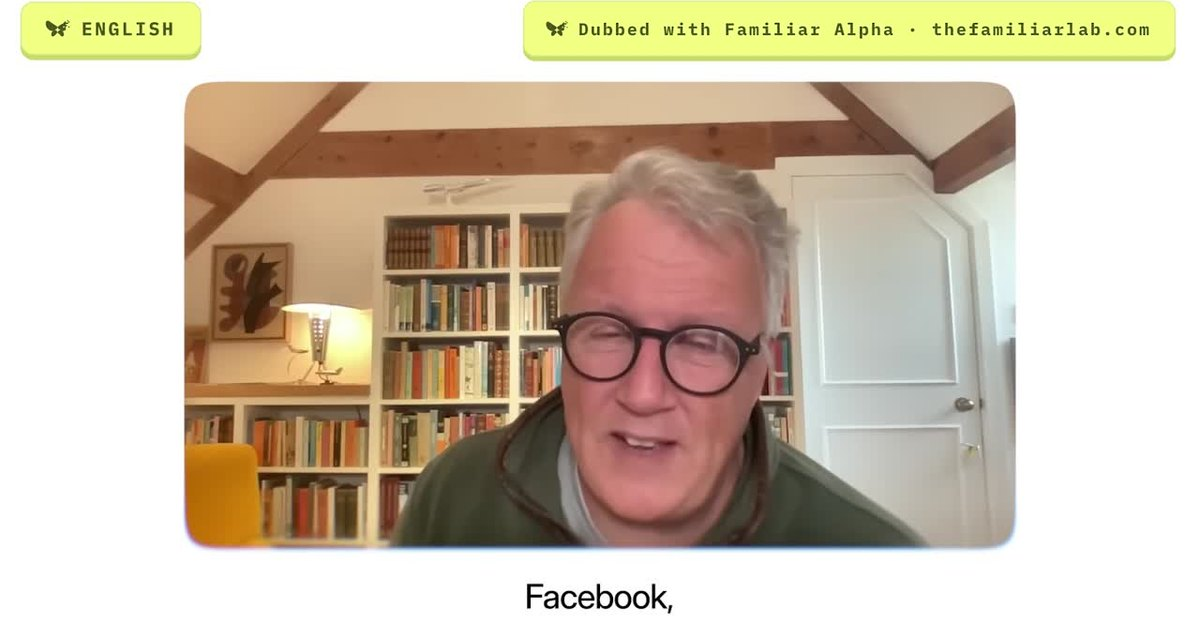
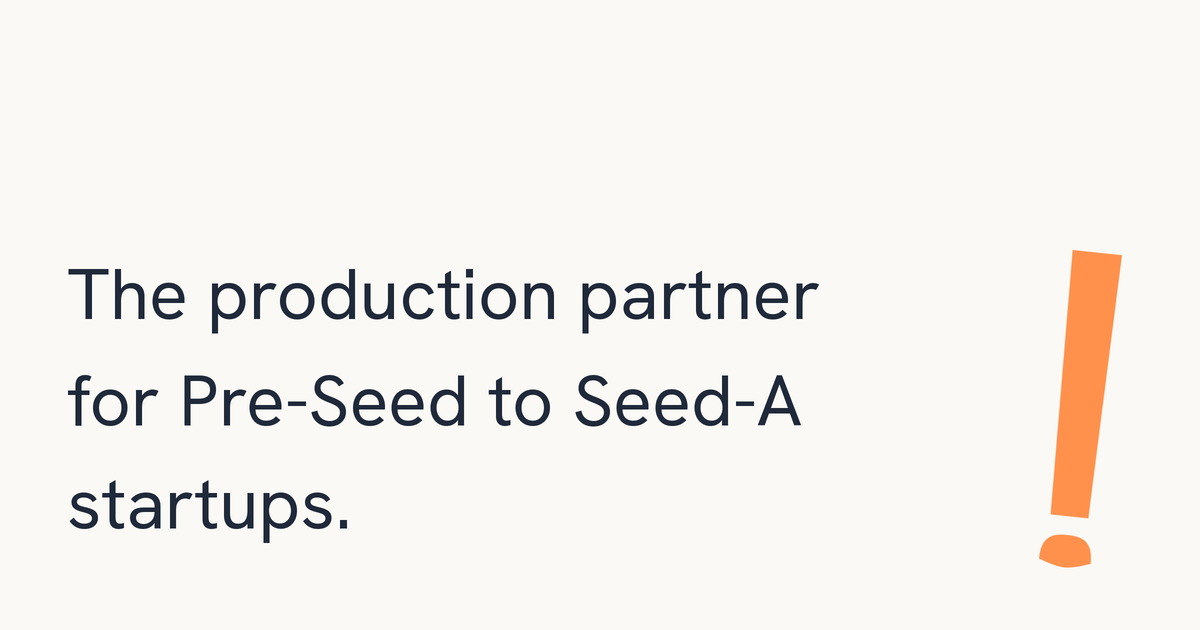
Update social preview, overlay loader, and launch cards.
Replace the OG graphic copy, lead with Familiar, rename the Bolto poster, and restyle launch thumbs plus overlay type and loading.

diff --git a/lib/site.js b/lib/site.js
@@ -5,7 +5,7 @@ export const site = {
   legalName: "WISPER STUDIOS",
   tagline: "BRANDING-FIRST PRODUCTION STUDIO",
   title: "Wisper Studios | The production partner for Pre-Seed to Seed-A startups",
-  previewTitle: "UPDATE TEXT HERE",
+  previewTitle: "The production partner for Pre-Seed to Seed-A startups.",
   description:
     "Launching, growing, and showing startups one (or 10) videos at a time. Branding-first production for Pre-Seed to Seed-A startups.",
   year: 2026,
@@ -30,9 +30,21 @@ export const site = {
     lockNote: "Other Projects Available Via DM",
     items: [
       {
+        slug: "familiar-launch",
+        title: "Familiar-Launch",
+        credits:
+          "[Director: Jarenz Castillo, Scriptwriter: Tommy Wang, Editor: Sharjeel Khan]",
+        description:
+          "Familiar (YC S26) launches video language translation that keeps the original performance — content that can live in every language.",
+        image: "/images/launches/work-4.jpg",
+        postUrl:
+          "https://www.linkedin.com/feed/update/urn:li:activity:7494156988268838912/",
+        embedUrl:
+          "https://www.linkedin.com/embed/feed/update/urn:li:activity:7494156988268838912?compact=1",
+      },
+      {
         slug: "twolabs-launch",
         title: "Twolabs Launch",
-        overlayTitle: "[Twolabs Launch]",
         credits: "[Director: Jarenz Castillo, DP: Carl De Vera, Editor: Sharjeel Khan]",
         description:
           "Twolabs (YC P26) introduces the humanoid robots they’re building — a launch film for a company still in motion.",
@@ -45,7 +57,6 @@ export const site = {
       {
         slug: "bolto-seriesa",
         title: "Bolto Series A",
-        overlayTitle: "[Bolto Series A]",
         credits: "[DP: Carl De Vera]",
         description:
           "Bolto shares a $12M Series A from Sequoia, Y Combinator, and General Catalyst — positioning for speed with investors and customers.",
@@ -57,8 +68,7 @@ export const site = {
       },
       {
         slug: "bolto-poster",
-        title: "Bolto Poster",
-        overlayTitle: "[Bolto Poster]",
+        title: "Bolto Poster Campaign",
         credits: "[DP, Editor: Carl De Vera]",
         description:
           "A poster-led piece for Bolto: sales shouldn’t be boring, so the work puts a world around the product instead of a pitch deck.",
@@ -67,20 +77,6 @@ export const site = {
           "https://www.linkedin.com/posts/mrinalsingh2_sales-shouldnt-be-boring-so-we-made-90-ugcPost-7445525481069903872-n1px/",
         embedUrl:
           "https://www.linkedin.com/embed/feed/update/urn:li:ugcPost:7445525481069903872?compact=1",
-      },
-      {
-        slug: "familiar-launch",
-        title: "Familiar-Launch",
-        overlayTitle: "[Familiar-Launch]",
-        credits:
-          "[Director: Jarenz Castillo, Scriptwriter: Tommy Wang, Editor: Sharjeel Khan]",
-        description:
-          "Familiar (YC S26) launches video language translation that keeps the original performance — content that can live in every language.",
-        image: "/images/launches/work-4.jpg",
-        postUrl:
-          "https://www.linkedin.com/feed/update/urn:li:activity:7494156988268838912/",
-        embedUrl:
-          "https://www.linkedin.com/embed/feed/update/urn:li:activity:7494156988268838912?compact=1",
       },
     ],
   },

diff --git a/components/landing/LandingPage.module.css b/components/landing/LandingPage.module.css
@@ -200,8 +200,9 @@
   overflow: hidden;
   width: 432px;
   height: 240px;
-  border-radius: var(--radius-sm);
-  background-color: var(--color-neutral-300);
+  border: 2px solid #ededed;
+  border-radius: 14px;
+  background-color: #ededed;
   scroll-snap-align: start;
 }
 
@@ -309,7 +310,40 @@
   width: 100%;
   overflow: hidden;
   aspect-ratio: 1960 / 1080;
-  background-color: var(--color-gooper-green);
+  background-color: #ededed;
+}
+
+.overlayLoader {
+  position: absolute;
+  inset: 0;
+  z-index: 1;
+  display: flex;
+  align-items: center;
+  justify-content: center;
+  background-color: #ededed;
+  pointer-events: none;
+}
+
+.overlayLoaderBar {
+  width: min(240px, 42%);
+  height: 4px;
+  border-radius: 999px;
+  background-color: #ff914d;
+  animation: overlayLoaderBar 1.2s ease-in-out infinite;
+}
+
+@keyframes overlayLoaderBar {
+  0% {
+    transform: translateX(-160%) scaleX(0.4);
+  }
+
+  50% {
+    transform: translateX(0) scaleX(1);
+  }
+
+  100% {
+    transform: translateX(160%) scaleX(0.4);
+  }
 }
 
 .overlayFrame iframe {
@@ -323,15 +357,7 @@
 .overlayMeta {
   display: flex;
   flex-direction: column;
-  gap: 12px;
-  width: 100%;
-}
-
-.overlayMetaRow {
-  display: flex;
-  align-items: baseline;
-  justify-content: space-between;
-  gap: 16px;
+  gap: 8px;
   width: 100%;
 }
 
@@ -339,19 +365,32 @@
 .overlayDirector,
 .overlayDescription {
   margin: 0;
-  color: var(--color-pure-black);
+  width: 100%;
   font-family: var(--font-family-mono);
-  font-size: 16px;
   font-weight: var(--font-weight-mono-regular);
   letter-spacing: 0;
-  line-height: 18px;
+}
+
+.overlayTitle {
+  color: var(--color-pure-black);
+  font-size: 16px;
+  line-height: 20px;
+  text-transform: uppercase;
 }
 
 .overlayDirector {
-  text-align: right;
+  color: rgb(0 0 0 / 50%);
+  font-size: 12px;
+  line-height: 16px;
+  text-align: left;
+  white-space: normal;
+  overflow-wrap: break-word;
 }
 
 .overlayDescription {
+  color: var(--color-pure-black);
+  font-size: 16px;
+  line-height: 18px;
   text-transform: none;
 }
 
@@ -550,23 +589,14 @@
     top: 24px;
     right: 16px;
   }
-
-  .overlayMetaRow {
-    flex-direction: column;
-    align-items: center;
-    text-align: center;
-  }
-
-  .overlayDirector {
-    text-align: center;
-  }
-
-  .overlayDescription {
-    text-align: center;
-  }
 }
 
 @media (prefers-reduced-motion: reduce) {
+  .overlayLoaderBar {
+    animation: none;
+    transform: none;
+  }
+
   .heroCta::before,
   .arrow,
   .socialTile {

diff --git a/components/landing/FeaturedLaunches.js b/components/landing/FeaturedLaunches.js
@@ -11,6 +11,11 @@ import styles from "./LandingPage.module.css";
 function VideoOverlay({ item, onClose }) {
   const closeRef = useRef(null);
   const titleId = useId();
+  const [frameLoaded, setFrameLoaded] = useState(false);
+
+  useEffect(() => {
+    setFrameLoaded(false);
+  }, [item?.embedUrl]);
 
   useEffect(() => {
     const previousOverflow = document.body.style.overflow;
@@ -49,6 +54,11 @@ function VideoOverlay({ item, onClose }) {
         </button>
         <div className={styles.overlayBody}>
           <div className={styles.overlayFrame}>
+            {frameLoaded ? null : (
+              <div className={styles.overlayLoader} aria-hidden="true">
+                <div className={styles.overlayLoaderBar} />
+              </div>
+            )}
             <iframe
               key={item.embedUrl}
               src={item.embedUrl}
@@ -56,17 +66,16 @@ function VideoOverlay({ item, onClose }) {
               allow="encrypted-media; fullscreen; picture-in-picture"
               allowFullScreen
               loading="lazy"
+              onLoad={() => setFrameLoaded(true)}
             />
           </div>
           <div className={styles.overlayMeta}>
-            <div className={styles.overlayMetaRow}>
-              <h3 id={titleId} className={styles.overlayTitle}>
-                {item.overlayTitle}
-              </h3>
-              {item.credits ? (
-                <p className={styles.overlayDirector}>{item.credits}</p>
-              ) : null}
-            </div>
+            <h3 id={titleId} className={styles.overlayTitle}>
+              {item.title}
+            </h3>
+            {item.credits ? (
+              <p className={styles.overlayDirector}>{item.credits}</p>
+            ) : null}
             {item.description ? (
               <p className={styles.overlayDescription}>{item.description}</p>
             ) : null}
